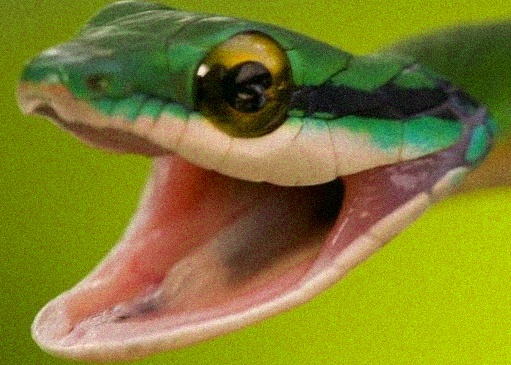
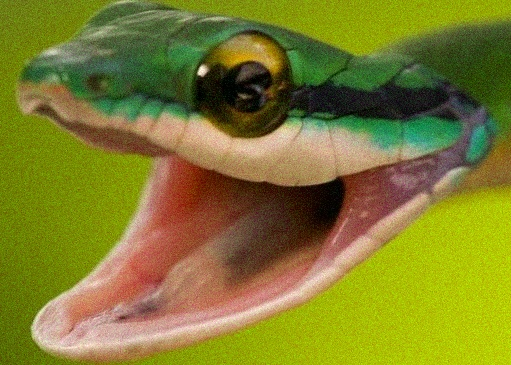
blur

diff --git a/homework/hw1/wrapper.py b/homework/hw1/wrapper.py
@@ -38,7 +38,7 @@ def main() -> None:
     img1_diff = difference_image(img1_gray, img1_shift)
     img2_diff = difference_image(img2_gray, img2_shift)
 
-    # TODO: Select appropriate sigma and call functions
+    # DONE: Select appropriate sigma and call functions
     sigma = 15
     img1_noise_red = add_channel_noise(img1, 2, sigma)
     img1_noise_green = add_channel_noise(img1, 1, sigma)
@@ -65,11 +65,11 @@ def main() -> None:
     img2_spnoise = add_salt_pepper(img2_gray)
 
     # TODO: Select appropriate ksize, must be odd
-    # ksize = 0
-    # img_blur = blur_image(img1_spnoise, ksize)
-    # img2_blur = blur_image(img2_spnoise, ksize)
+    ksize = (3, 3)
+    img1_blur = blur_image(img1, ksize)
+    img2_blur = blur_image(img2, ksize)
 
-    # TODO: Write out all images to appropriate files
+    # DONE: Write out all images to appropriate files
     cv2.imwrite("hw1_pic1_gray.jpg", img1_gray)
     cv2.imwrite("hw1_pic2_gray.jpg", img2_gray)
 
@@ -108,6 +108,9 @@ def main() -> None:
 
     cv2.imwrite("hw1_pic1_spnoise.jpg", img1_spnoise)
     cv2.imwrite("hw1_pic2_spnoise.jpg", img2_spnoise)
+
+    cv2.imwrite("hw1_pic1_blur.jpg", img1_blur)
+    cv2.imwrite("hw1_pic2_blur.jpg", img2_blur)
 
 if __name__ == '__main__':
     main()

diff --git a/homework/hw1/hw1.py b/homework/hw1/hw1.py
@@ -243,7 +243,7 @@ def add_salt_pepper(img: np.ndarray) -> np.ndarray:
     return noisy_img
 
 
-def blur_image(img: np.ndarray, ksize: int) -> np.ndarray:
+def blur_image(img: np.ndarray, ksize: tuple) -> np.ndarray:
     """
     This function takes an image and returns the blurred image
 
@@ -252,4 +252,10 @@ def blur_image(img: np.ndarray, ksize: int) -> np.ndarray:
     :param ksize: Kernel Size for medianBlur
     :return: Image array with blurred image
     """
-    raise NotImplementedError
+    # Copy the image
+    blurred_img = img.copy()
+
+    # Blur the image
+    blurred_img = cv2.GaussianBlur(blurred_img, ksize, 1.5)
+
+    return blurred_img
